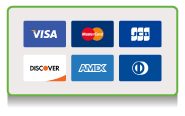
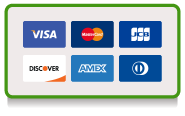
Update the payment type images on the pricing pages

diff --git a/cypherpunk-com/src/app/components/payment/payment-selection/payment-selection.component.html b/cypherpunk-com/src/app/components/payment/payment-selection/payment-selection.component.html
@@ -1,7 +1,7 @@
 <div class="payment-options">
   <div class="type-container" (click)="update('cc')" [ngClass]="{'active': paymentMethod === 'cc'}">
-    <img [ngClass]="{'show': paymentMethod === 'cc'}" src="/assets/payment/credit-card-selected.png">
-    <img [ngClass]="{'show': paymentMethod !== 'cc'}" src="/assets/payment/credit-card.png">
+    <img [ngClass]="{'show': paymentMethod === 'cc'}" src="/assets/payment/credit-card-selected@2x.png" srcset="/assets/payment/credit-card-selected.png 500w, /assets/payment/credit-card-selected@2x.png 1000w">
+    <img [ngClass]="{'show': paymentMethod !== 'cc'}" src="/assets/payment/credit-card@2x.png" srcset="/assets/payment/credit-card.png 500w, /assets/payment/credit-card@2x.png 1000w">
 
     <div class="text">
       <input id="cc" type="radio" name="paymentOptions" [checked]="paymentMethod === 'cc'">
@@ -10,8 +10,8 @@
   </div>
 
   <div class="type-container" (click)="update('pp')" [ngClass]="{'active': paymentMethod === 'pp'}">
-    <img [ngClass]="{'show': paymentMethod === 'pp'}" src="/assets/payment/paypal-selected.png">
-    <img [ngClass]="{'show': paymentMethod !== 'pp'}" src="/assets/payment/paypal.png">
+    <img [ngClass]="{'show': paymentMethod === 'pp'}" src="/assets/payment/paypal-selected@2x.png" srcset="/assets/payment/paypal-selected.png 500w, /assets/payment/paypal-selected@2x.png 1000w">
+    <img [ngClass]="{'show': paymentMethod !== 'pp'}" src="/assets/payment/paypal@2x.png" srcset="/assets/payment/paypal.png 500w, /assets/payment/paypal@2x.png">
 
     <div class="text">
       <input id="pp" type="radio" name="paymentOptions" [checked]="paymentMethod === 'pp'">
@@ -20,8 +20,8 @@
   </div>
 
   <div class="type-container" (click)="update('a')" [ngClass]="{'active': paymentMethod === 'a'}">
-    <img [ngClass]="{'show': paymentMethod === 'a'}" src="/assets/payment/amazon-selected.png">
-    <img [ngClass]="{'show': paymentMethod !== 'a'}" src="/assets/payment/amazon.png">
+    <img [ngClass]="{'show': paymentMethod === 'a'}" src="/assets/payment/amazon-selected@2x.png" srcset="/assets/payment/amazon-selected.png 500w, /assets/payment/amazon-selected@2x.png 1000w">
+    <img [ngClass]="{'show': paymentMethod !== 'a'}" src="/assets/payment/amazon@2x.png" srcset="/assets/payment/amazon.png 500w, /assets/payment/amazon@2x.png 1000w">
 
     <div class="text">
       <input id="a" type="radio" name="paymentOptions" [checked]="paymentMethod === 'a'">
@@ -30,8 +30,8 @@
   </div>
 
   <div class="type-container" (click)="update('bc')" [ngClass]="{'active': paymentMethod === 'bc'}">
-    <img [ngClass]="{'show': paymentMethod === 'bc'}" src="/assets/payment/bitcoin-selected.png">
-    <img [ngClass]="{'show': paymentMethod !== 'bc'}" src="/assets/payment/bitcoin.png">
+    <img [ngClass]="{'show': paymentMethod === 'bc'}" src="/assets/payment/bitcoin-selected@2x.png" srcset="/assets/payment/bitcoin-selected.png 500w, /assets/payment/bitcoin-selected@2x.png 1000w">
+    <img [ngClass]="{'show': paymentMethod !== 'bc'}" src="/assets/payment/bitcoin@2x.png" srcset="/assets/payment/bitcoin.png 500w, /assets/payment/bitcoin@2x.png 1000w">
 
     <div class="text">
       <input id="bc" type="radio" name="paymentOptions" [checked]="paymentMethod === 'bc'">

diff --git a/cypherpunk-com/src/app/components/payment/payment-selection/payment-selection.component.scss b/cypherpunk-com/src/app/components/payment/payment-selection/payment-selection.component.scss
@@ -6,7 +6,7 @@
     cursor: pointer;
     margin: 0 40px 0 0;
     &:last-child { margin: 0; }
-    img { display: none; margin: auto; }
+    img { display: none; margin: auto; width: 185px; }
     img.show { display: block; }
   }
   .text {
